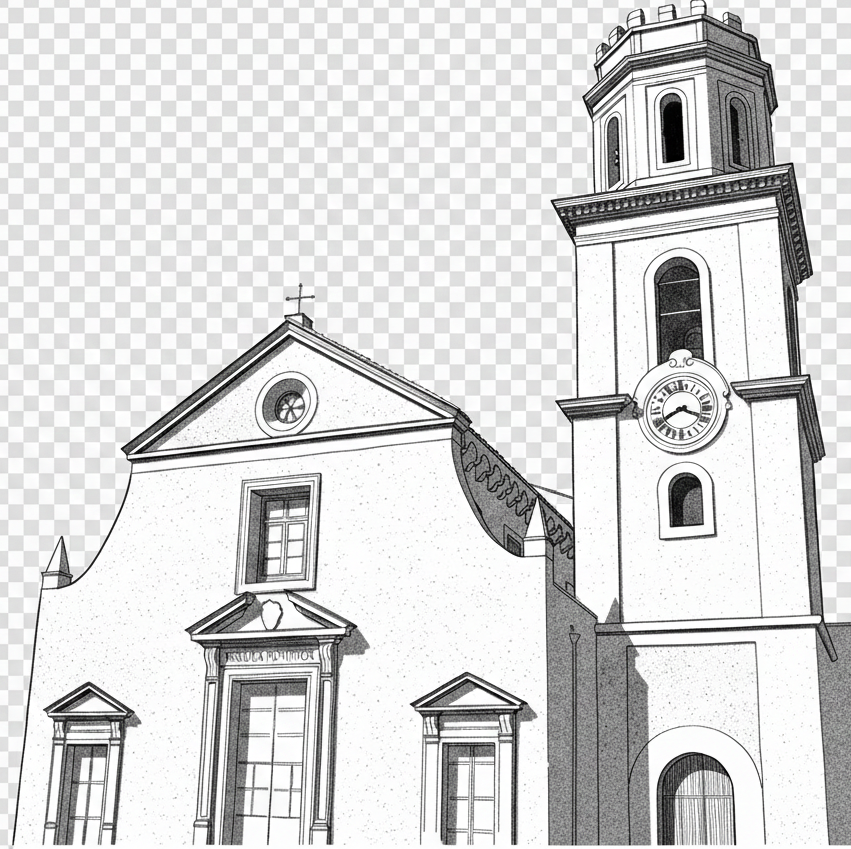
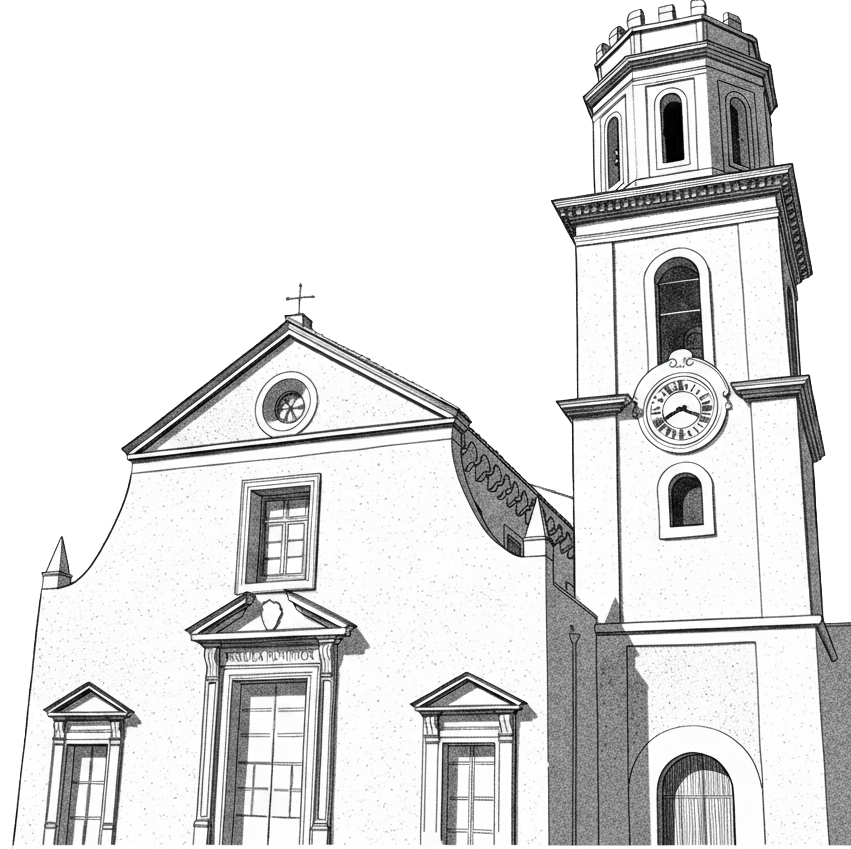
Aggiorna icona chiesa con nuova versione ottimizzata

Changed region(s): [[0.0, 0.0, 1.0, 1.0]]

diff --git a/scripts/convert-chiesa-to-webp.js b/scripts/convert-chiesa-to-webp.js
@@ -11,10 +11,40 @@ const run = async () => {
   }
 
   try {
-    await sharp(input)
-      .webp({ quality: 90 })
-      .toFile(output);
-    console.log('Created', output);
+    const bgColor = { r: 253, g: 251, b: 247 }; // #FDFBF7
+    
+    // Get image buffer with transparency flattened and process pixels
+    const { data, info } = await sharp(input)
+      .flatten({ background: bgColor }) // First flatten any transparency
+      .raw()
+      .toBuffer({ resolveWithObject: true });
+    
+    // Replace all white/light pixels with background color
+    for (let i = 0; i < data.length; i += 3) {
+      const r = data[i];
+      const g = data[i + 1];
+      const b = data[i + 2];
+      
+      // If pixel is light colored (threshold 240), replace with background color
+      if (r > 240 && g > 240 && b > 240) {
+        data[i] = bgColor.r;
+        data[i + 1] = bgColor.g;
+        data[i + 2] = bgColor.b;
+      }
+    }
+    
+    // Create final image without alpha channel
+    await sharp(data, {
+      raw: {
+        width: info.width,
+        height: info.height,
+        channels: 3
+      }
+    })
+    .webp({ quality: 90 })
+    .toFile(output);
+    
+    console.log('Created', output, 'with all white pixels replaced with card color');
   } catch (err) {
     console.error('Conversion failed:', err);
     process.exit(1);

diff --git a/scripts/convert-new-chiesa.js b/scripts/convert-new-chiesa.js
@@ -1,0 +1,28 @@
+import sharp from 'sharp';
+
+const input = 'src/assets/chiesa.png';
+const output = 'src/assets/chiesa.webp';
+
+async function convertChiesa() {
+  try {
+    const info = await sharp(input)
+      .resize(400, 400, { // Ridimensiona per ridurre size
+        fit: 'inside',
+        withoutEnlargement: true
+      })
+      .webp({ 
+        quality: 85, // Buona qualità ma dimensione ridotta
+        effort: 6    // Massima compressione
+      })
+      .toFile(output);
+    
+    console.log(`✓ Creata ${output}`);
+    console.log(`  Dimensioni: ${info.width}x${info.height}`);
+    console.log(`  Size: ${(info.size / 1024).toFixed(2)} KB`);
+    
+  } catch (error) {
+    console.error('Errore:', error);
+  }
+}
+
+convertChiesa();

diff --git a/src/components/wedding/Itinerary.tsx b/src/components/wedding/Itinerary.tsx
@@ -17,8 +17,8 @@ const events = [
         <img
           src={chiesaIcon}
           alt="Chiesa"
-          className="w-20 h-20 object-contain mix-blend-darken"
-          style={{ filter: 'contrast(1.1) brightness(1.05)', opacity: 0.8 }}
+          className="w-20 h-20 object-contain"
+          style={{ opacity: 0.8 }}
         />
       </div>
     ),
@@ -164,7 +164,7 @@ const Itinerary = () => {
             initial={{ opacity: 0, rotate: 0 }}
             whileInView={{ opacity: 0.8, rotate: -15 }}
             viewport={{ once: true }}
-            transition={{ delay: 0.8, duration: 0.6 }}
+            transition={{ delay: 0.9, duration: 0.7 }}
           >
             <img
               src={logo}

diff --git a/src/components/wedding/GiftsSection.tsx b/src/components/wedding/GiftsSection.tsx
@@ -52,7 +52,7 @@ const GiftsSection = () => {
                 animate={{ opacity: 1, transition: { delay: 0.7, duration: 0.3 } }}
                 exit={{ opacity: 0, transition: { duration: 0.2 } }}
               >
-                Clicca sul regalo
+                Clicca qui
               </motion.p>
             )}
           </AnimatePresence>
